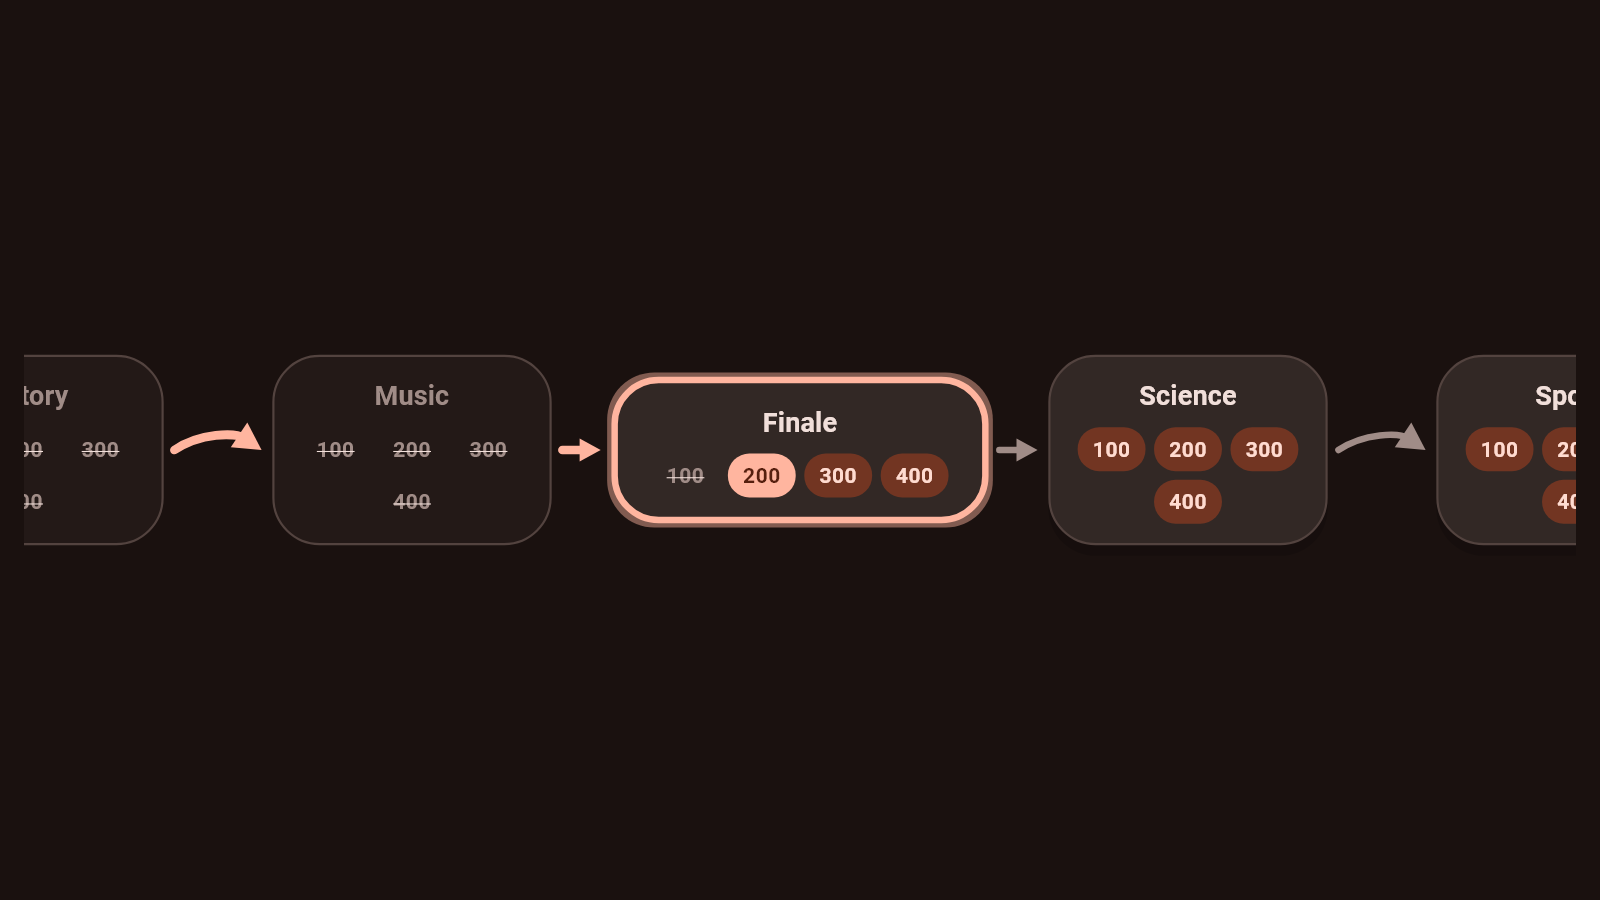
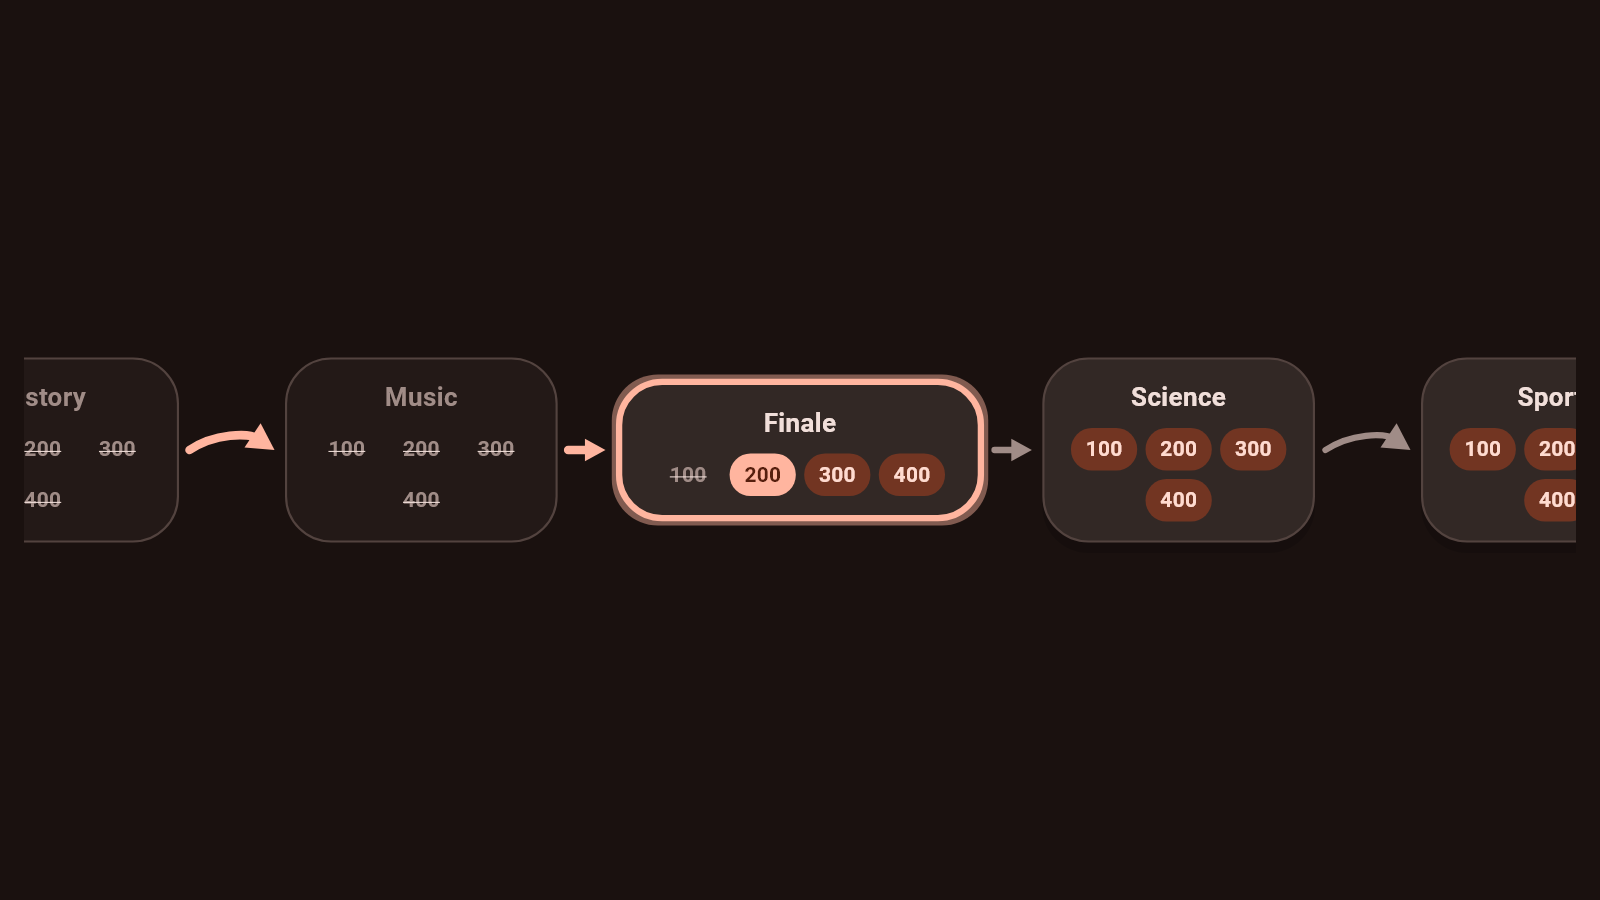
Map board: bubbles and text follow the screen height; a narrower window shows less of the map and scrolls

diff --git a/test/map_board_test.dart b/test/map_board_test.dart
@@ -24,8 +24,8 @@ void main() {
   });
 
   group('in the game', () {
-    Future<void> pumpBoard(WidgetTester tester, SessionState state) async {
-      tester.view.physicalSize = const Size(1000, 600);
+    Future<void> pumpBoard(WidgetTester tester, SessionState state, {Size size = const Size(1600, 900)}) async {
+      tester.view.physicalSize = size;
       tester.view.devicePixelRatio = 1;
       addTearDown(tester.view.reset);
       await tester.pumpWidget(MaterialApp(
@@ -41,27 +41,35 @@ void main() {
     testWidgets('the board starts at the beginning of the canvas', (tester) async {
       await pumpBoard(tester, const SessionState());
       expect(offset(tester), 0);
-      expect(tester.getSize(find.byType(MapCanvas)).width, 2000);
+      expect(tester.getSize(find.byType(MapCanvas)).width, 3200);
+    });
+
+    testWidgets('a narrower window shows less of the map, at the same size', (tester) async {
+      await pumpBoard(tester, const SessionState());
+      final wideText = tester.getSize(find.text('Category 0')).height;
+      await pumpBoard(tester, const SessionState(), size: const Size(1100, 900));
+      expect(tester.getSize(find.byType(MapCanvas)).width, 3200);
+      expect(tester.getSize(find.text('Category 0')).height, wideText);
     });
 
     testWidgets('opening a question glides its category to the middle', (tester) async {
       await pumpBoard(tester, const SessionState());
       await pumpBoard(tester, open('c4'));
-      // c4 sits at 4.5/8 of a 2000 wide canvas = 1125; centred in a 1000 window.
+      // c4 sits at 4.5/8 of a 3200 wide canvas = 1800; centred in a 1600 window.
       await tester.pump(const Duration(milliseconds: 450));
       final halfway = offset(tester);
-      expect(halfway, inExclusiveRange(0, 625));
+      expect(halfway, inExclusiveRange(0, 1000));
       await tester.pumpAndSettle();
-      expect(offset(tester), 625);
+      expect(offset(tester), 1000);
       // Ease in and out: by half time it is about half way, not all the way.
-      expect(halfway, closeTo(312.5, 80));
+      expect(halfway, closeTo(500, 120));
     });
 
     testWidgets('categories at either end stop at the edge of the canvas', (tester) async {
       await pumpBoard(tester, const SessionState());
       await pumpBoard(tester, open('c7'));
       await tester.pumpAndSettle();
-      expect(offset(tester), 1000);
+      expect(offset(tester), 1600);
       await pumpBoard(tester, open('c0'));
       await tester.pumpAndSettle();
       expect(offset(tester), 0);
@@ -81,7 +89,7 @@ void main() {
     testWidgets('a show resumed mid-question starts on that category, without a glide', (tester) async {
       await pumpBoard(tester, open('c4'));
       await tester.pump();
-      expect(offset(tester), 625);
+      expect(offset(tester), 1000);
     });
   });
 }

diff --git a/lib/features/session/boards/map_board.dart b/lib/features/session/boards/map_board.dart
@@ -70,7 +70,11 @@ class _MapBoardScrollState extends State<MapBoard> {
     final map = layoutMap(widget.group);
     return LayoutBuilder(
       builder: (context, box) {
-        final canvasWidth = box.maxWidth * map.widthFactor;
+        // Sized against a 16:9 screen as high as this one, so text and
+        // bubbles follow the height only: a narrower window shows less of
+        // the map and scrolls further, a wider one shows more.
+        final screen = box.maxHeight * 16 / 9;
+        final canvasWidth = max(screen * map.widthFactor, box.maxWidth);
         WidgetsBinding.instance.addPostFrameCallback((_) => _follow(map, canvasWidth, box.maxWidth));
         return SingleChildScrollView(
           controller: _scroll,
@@ -78,7 +82,7 @@ class _MapBoardScrollState extends State<MapBoard> {
           child: SizedBox(
             width: canvasWidth,
             height: box.maxHeight,
-            child: MapCanvas(group: widget.group, state: widget.state, imageFile: widget.imageFile, viewportWidth: box.maxWidth),
+            child: MapCanvas(group: widget.group, state: widget.state, imageFile: widget.imageFile, viewportWidth: screen),
           ),
         );
       },
